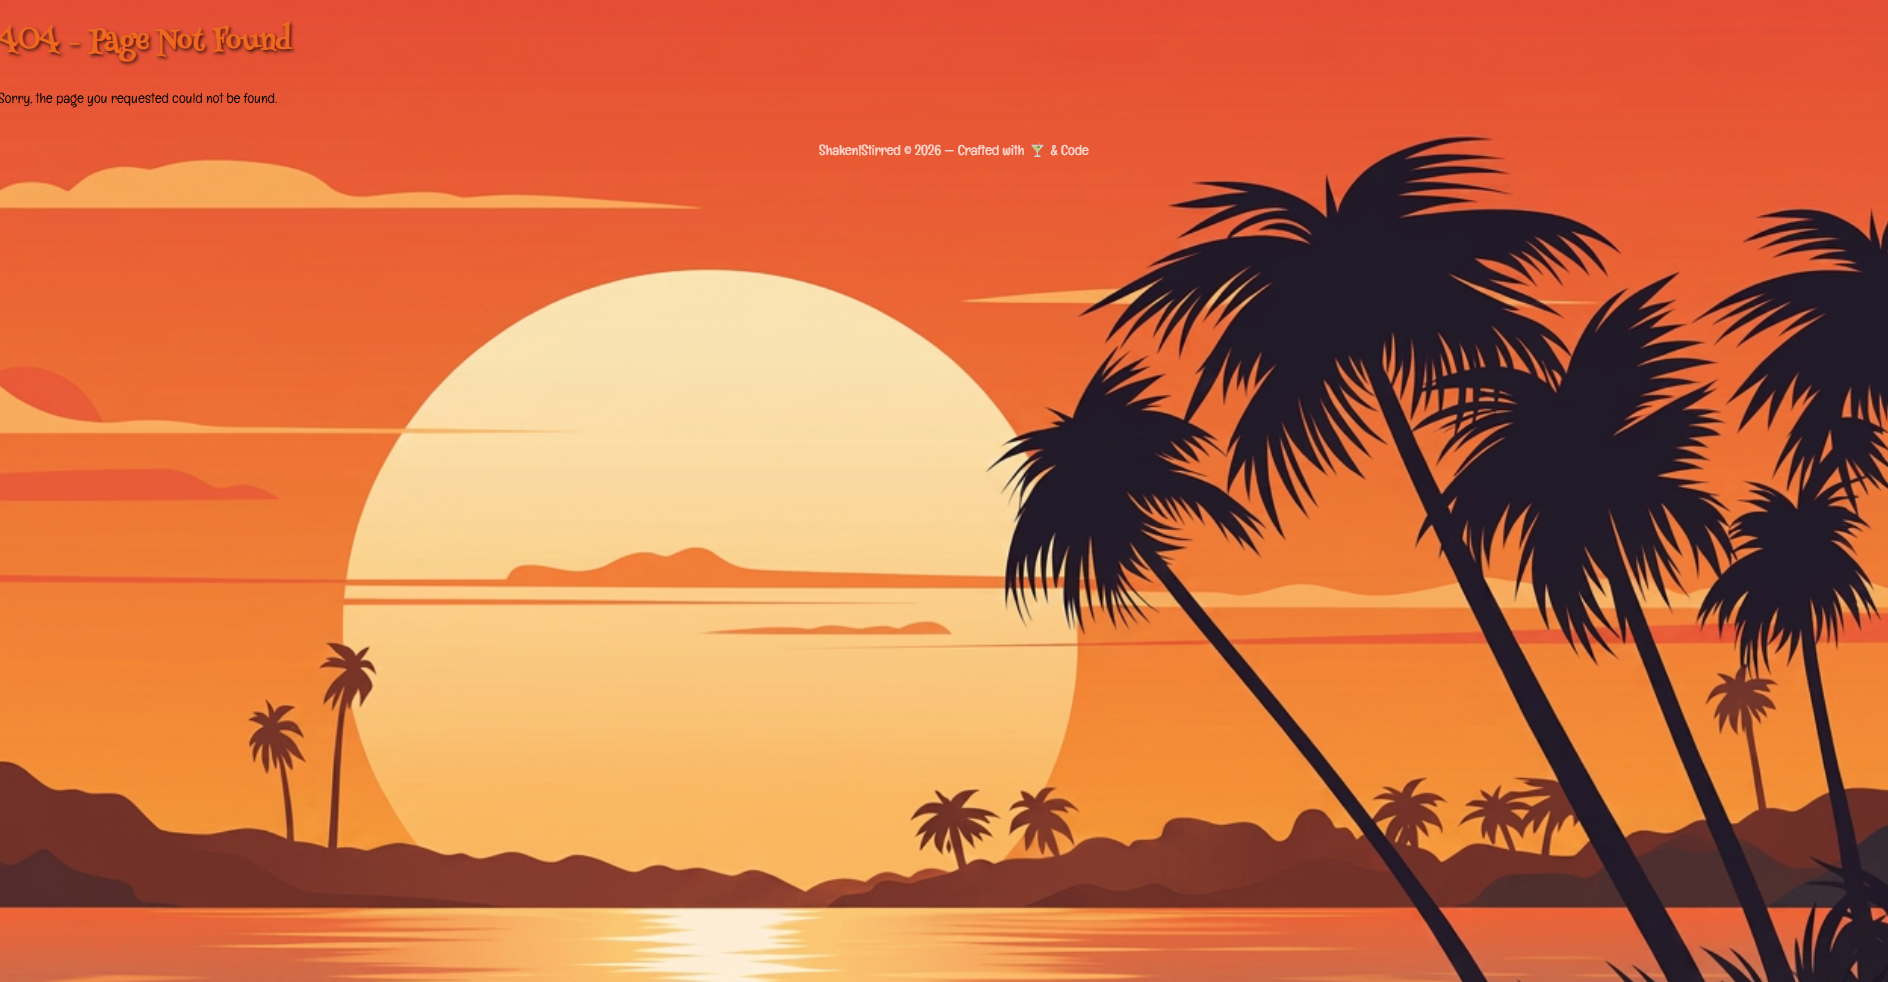
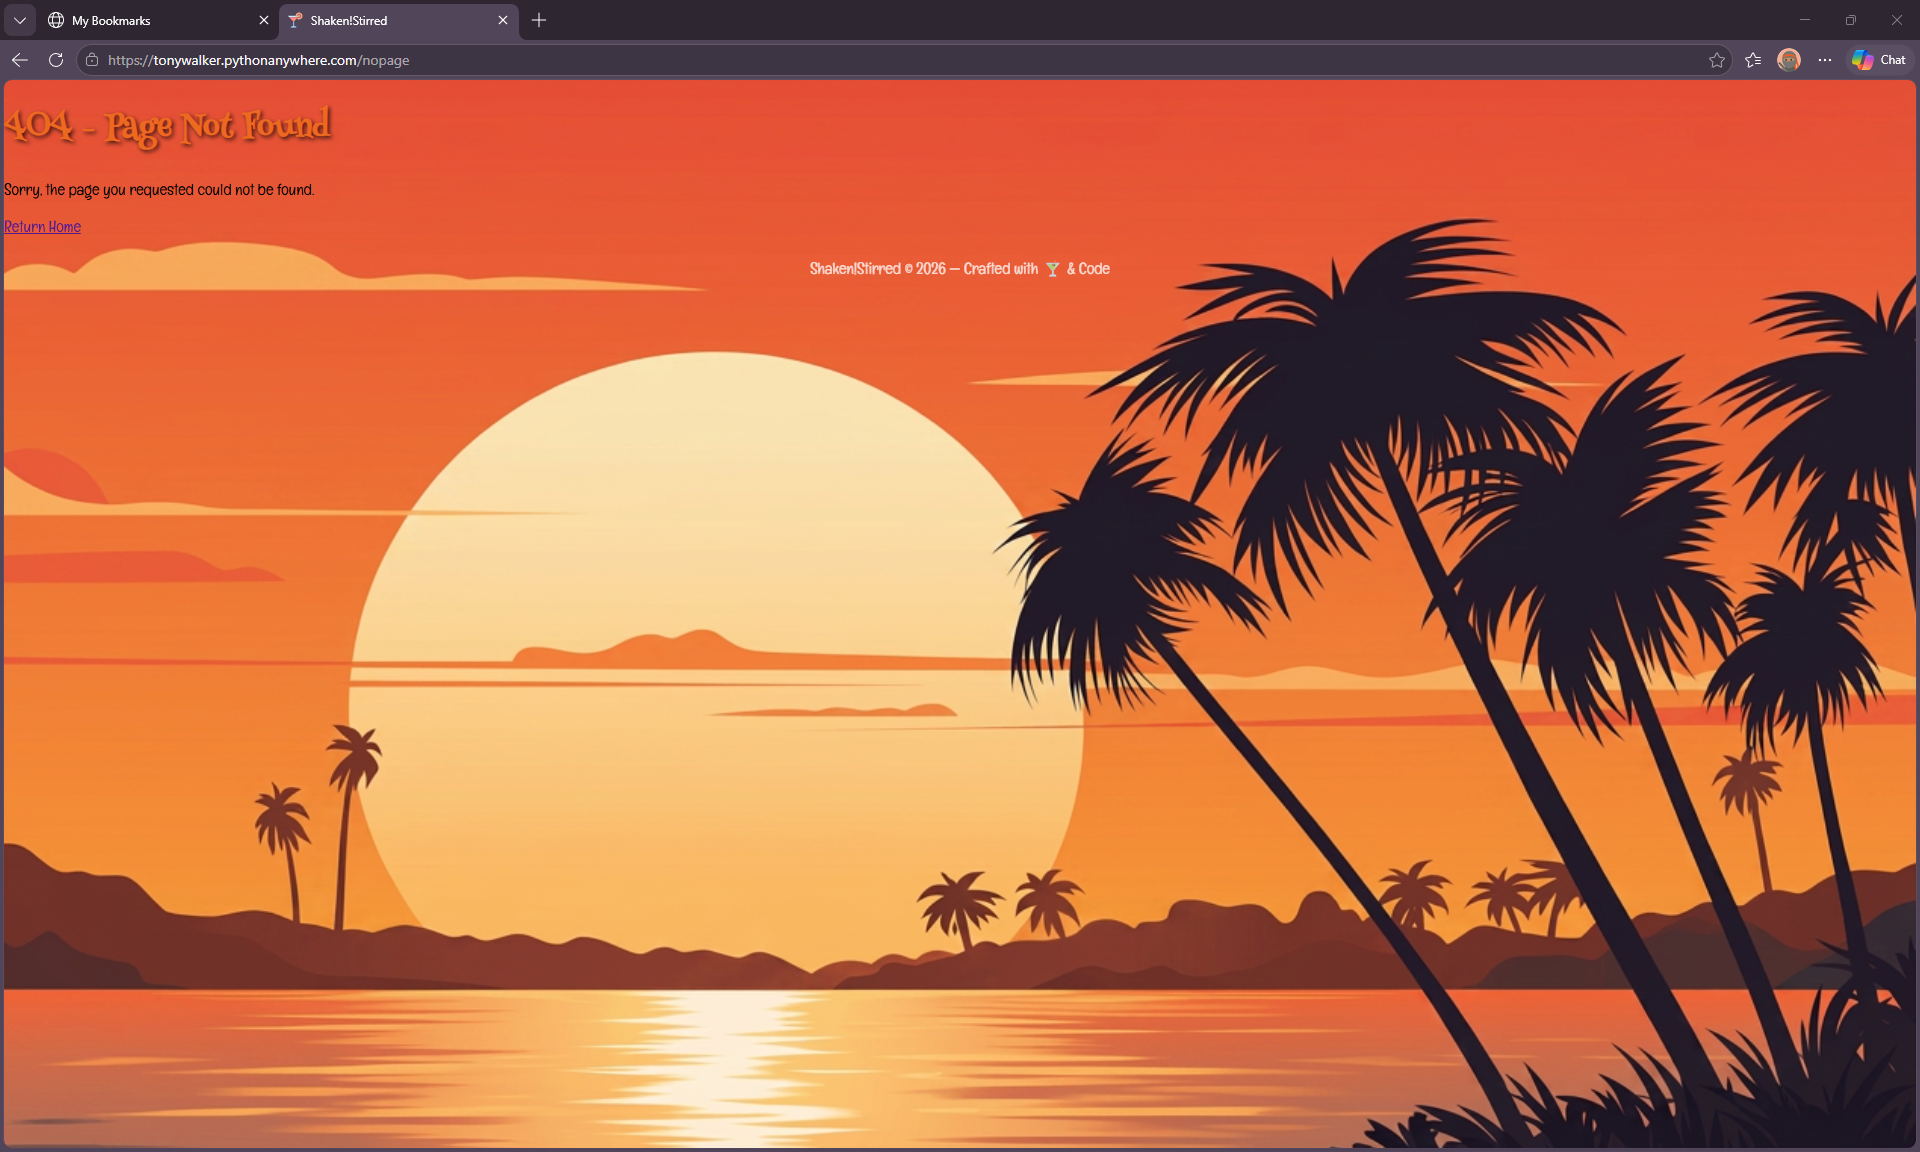
Add custom 404 page and live testing evidence

diff --git a/testing.md b/testing.md
@@ -2024,7 +2024,7 @@ Expected Result:
 
 
 
-To improve user experience and error handling, a custom 404 (Page Not Found) template was implemented within the Django application. Rather than displaying Django's default error page, users are presented with a branded page that remains visually consistent with the rest of the website. The custom page provides a clear explanation that the requested resource could not be found and includes navigation back to the main application. This ensures that invalid URLs are handled gracefully while maintaining a professional and user-friendly experience.
+A custom Django 404 error page was implemented and tested in both the local development environment and the live deployment. The page provides a user-friendly message when an invalid URL is requested and maintains consistency with the website's design and branding. A navigation link was also provided to allow users to quickly return to the application's home page. Testing confirmed that invalid URLs are handled correctly and that users are not presented with Django's default error page.
 
 <img src="screenshots/404page.png">
 
